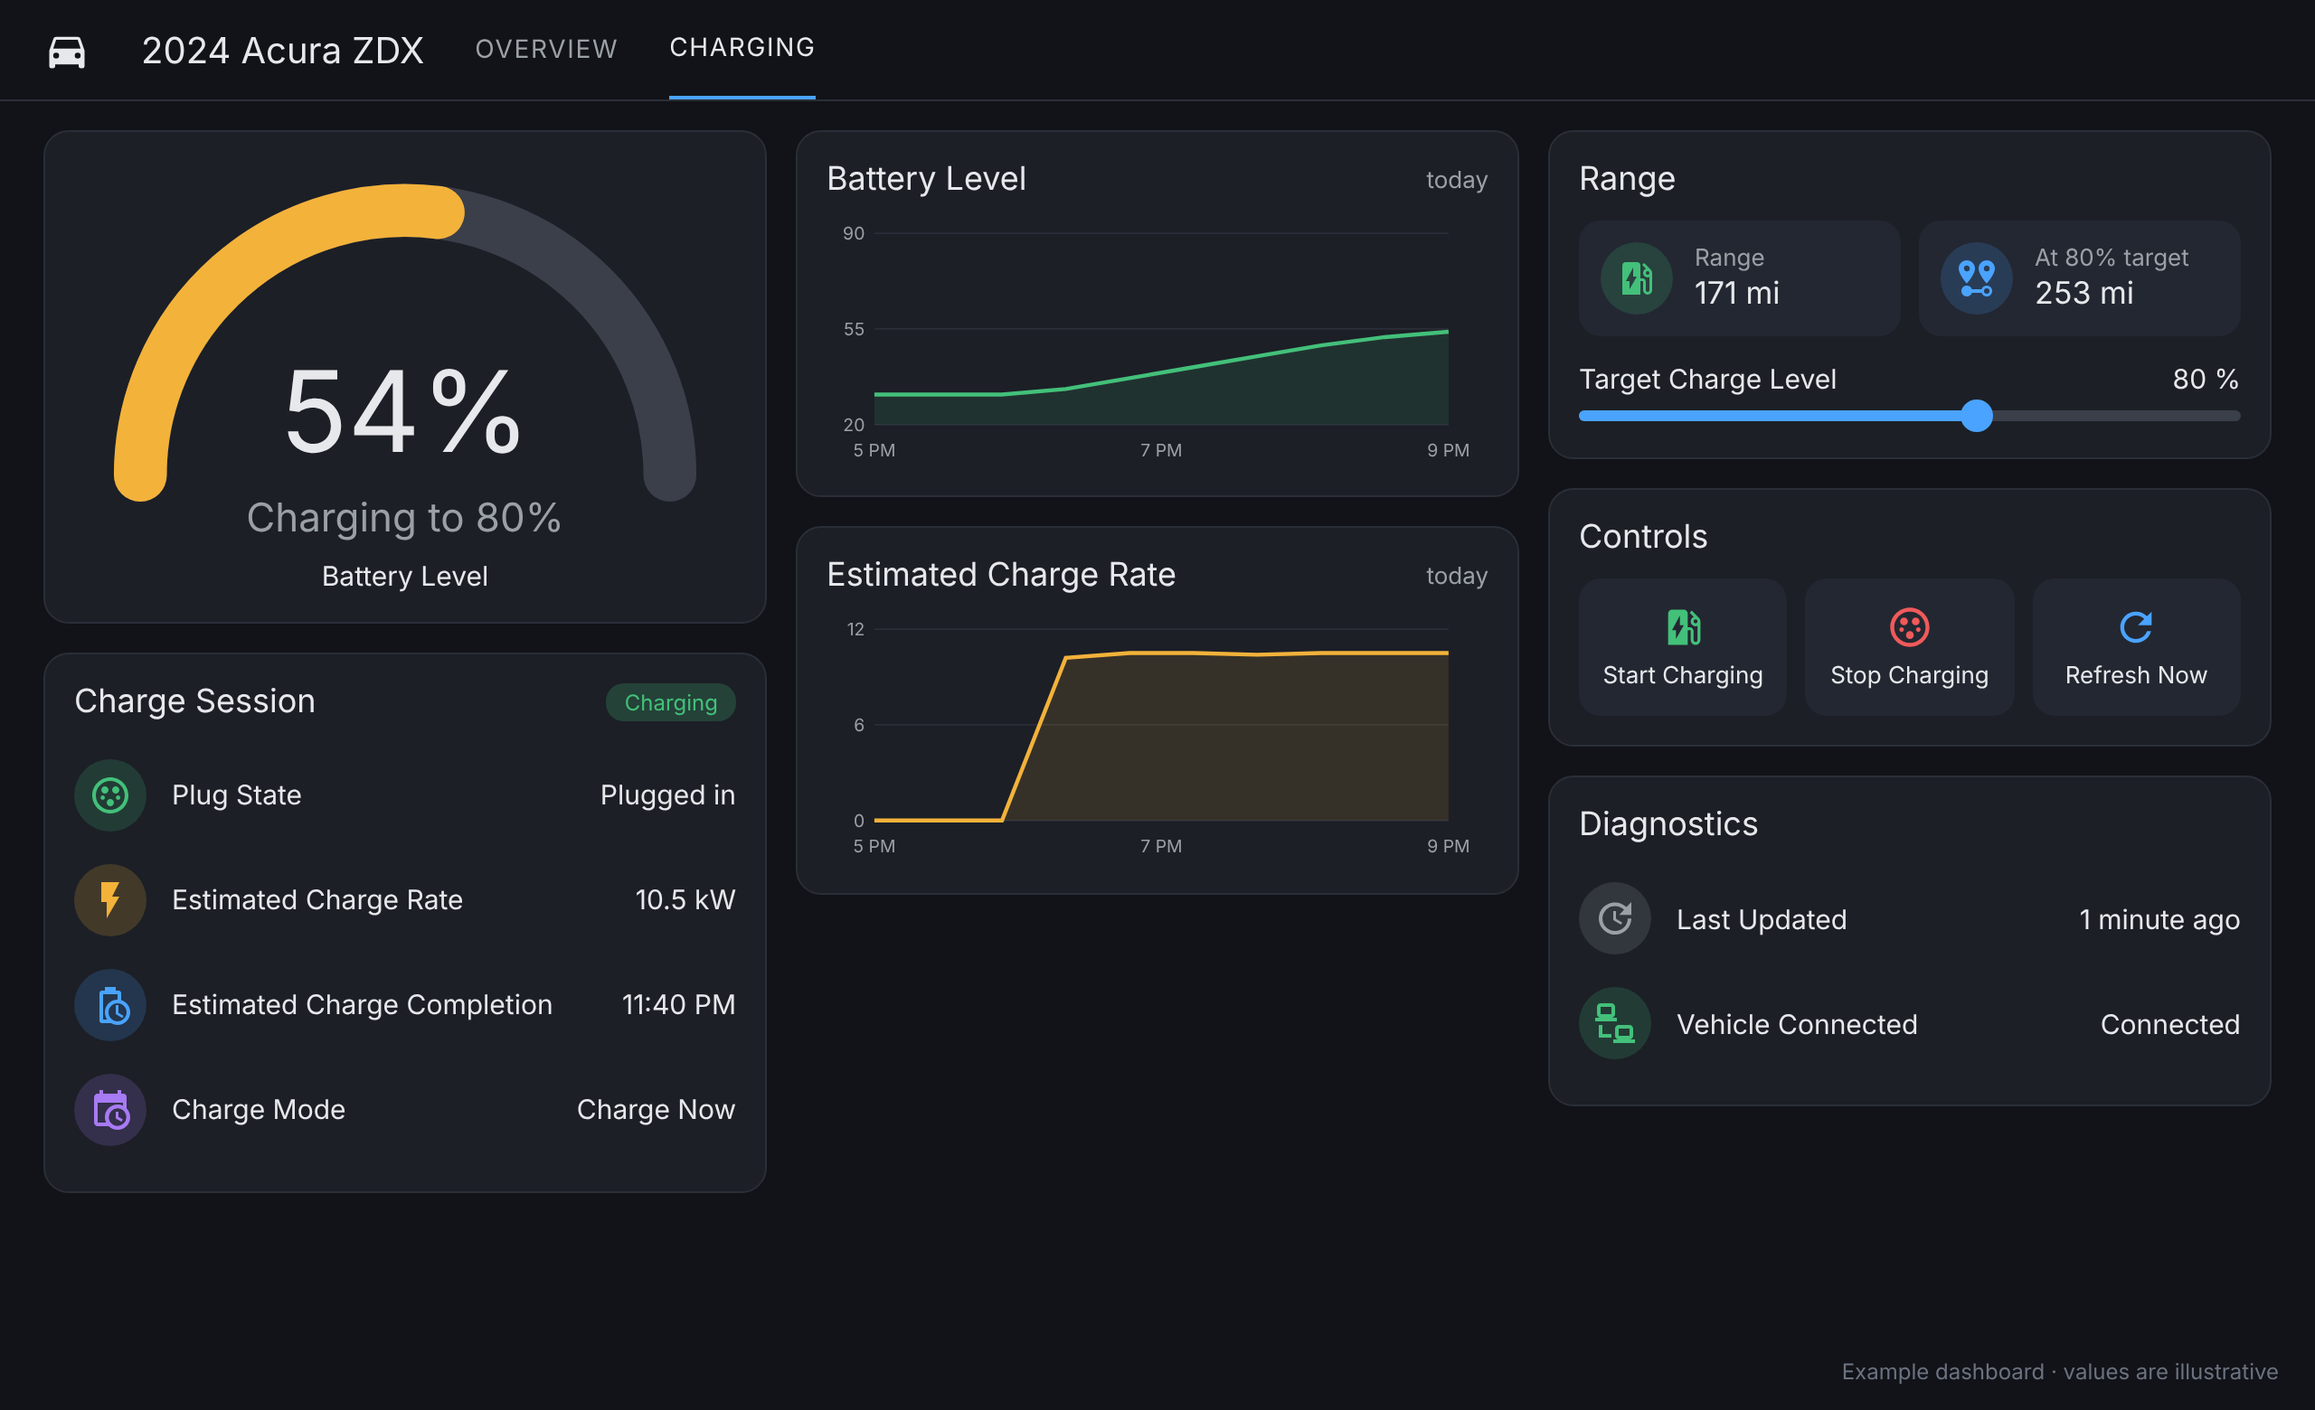
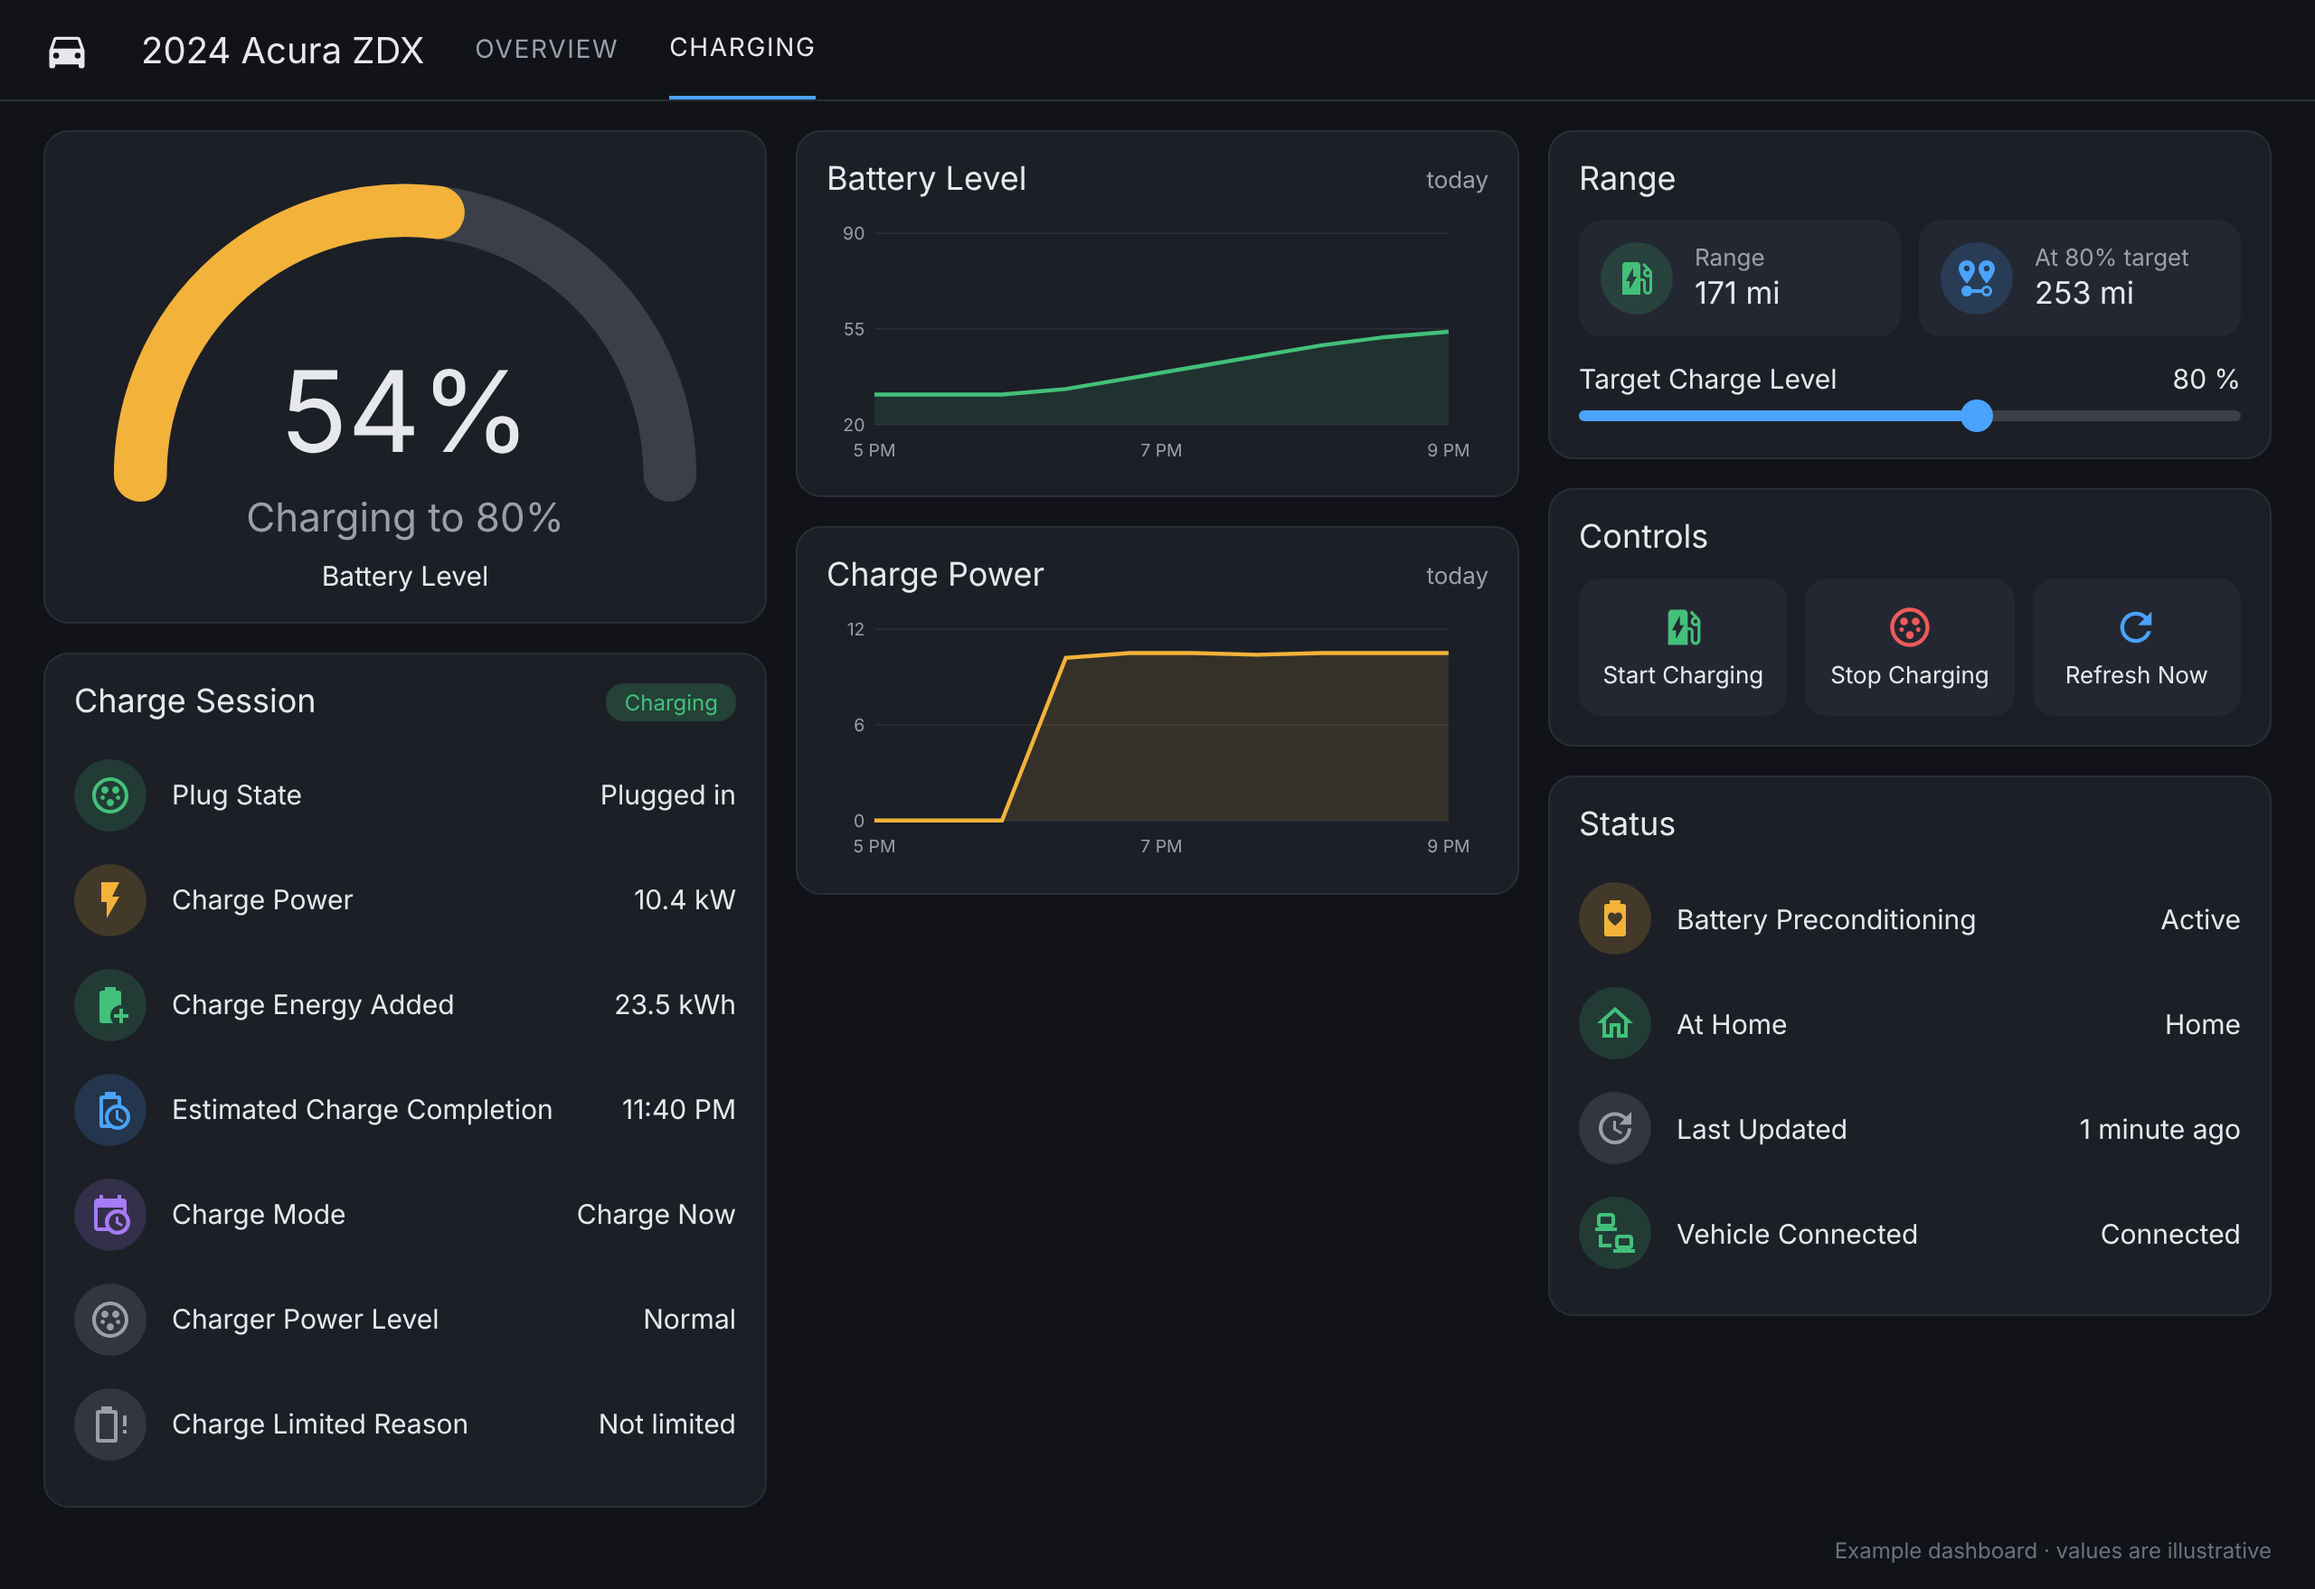
Update example dashboards for 2.4.0 entities
Claude-Session: https://claude.ai/code/session_01Tt97jf8tKBULGaUmj892cS

diff --git a/README.md b/README.md
@@ -31,13 +31,13 @@ The application has full support for Home Assistant MQTT discovery, and can run 
 
 ## Example Dashboards
 
-These are example layouts showing what you can build with the entities this add-on creates, including everything added in this fork since 2.0.1 (Charge Mode, Range at Target Charge, Last Updated, Vehicle Connected, Refresh Now and Start Charging). The values shown are illustrative. A ready-to-paste dashboard using only built-in Home Assistant cards is in [`examples/dashboard.yaml`](examples/dashboard.yaml).
+These are example layouts showing what you can build with the entities this add-on creates, including everything added in this fork through 2.4.0 (charge mode and range at target, departure schedule, at home, charge power and energy added, charger power level, battery preconditioning, warning lamps, climate auto-off, refresh and start-charging buttons, and diagnostics). The values shown are illustrative. A ready-to-paste dashboard using only built-in Home Assistant cards is in [`examples/dashboard.yaml`](examples/dashboard.yaml).
 
-**Overview:** battery, range, charge mode and target, charging controls, climate, door lock, tire pressures and diagnostics
+**Overview:** battery, range, charge mode and target, departure schedule, charging controls, climate, door lock, tire pressures and vehicle status
 
 ![Example overview dashboard](images/dashboards/overview.png)
 
-**Charging:** live charge session with rate, completion time and history
+**Charging:** live charge session with power, energy added, completion time, charger level and history
 
 ![Example charging dashboard](images/dashboards/charging.png)
 
